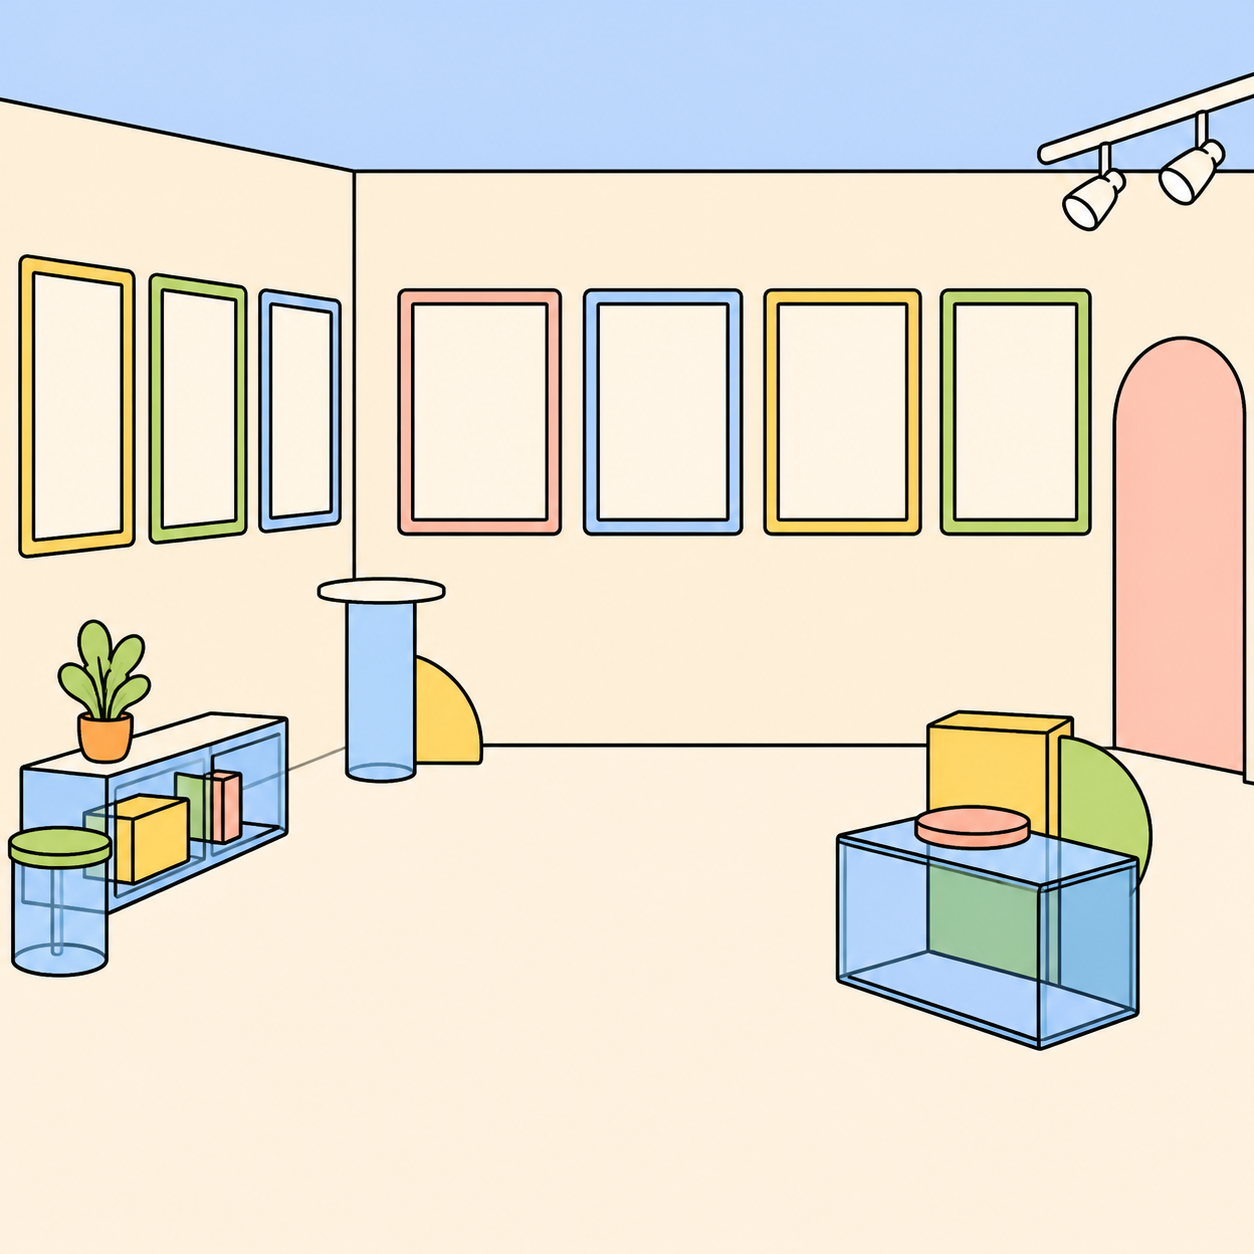
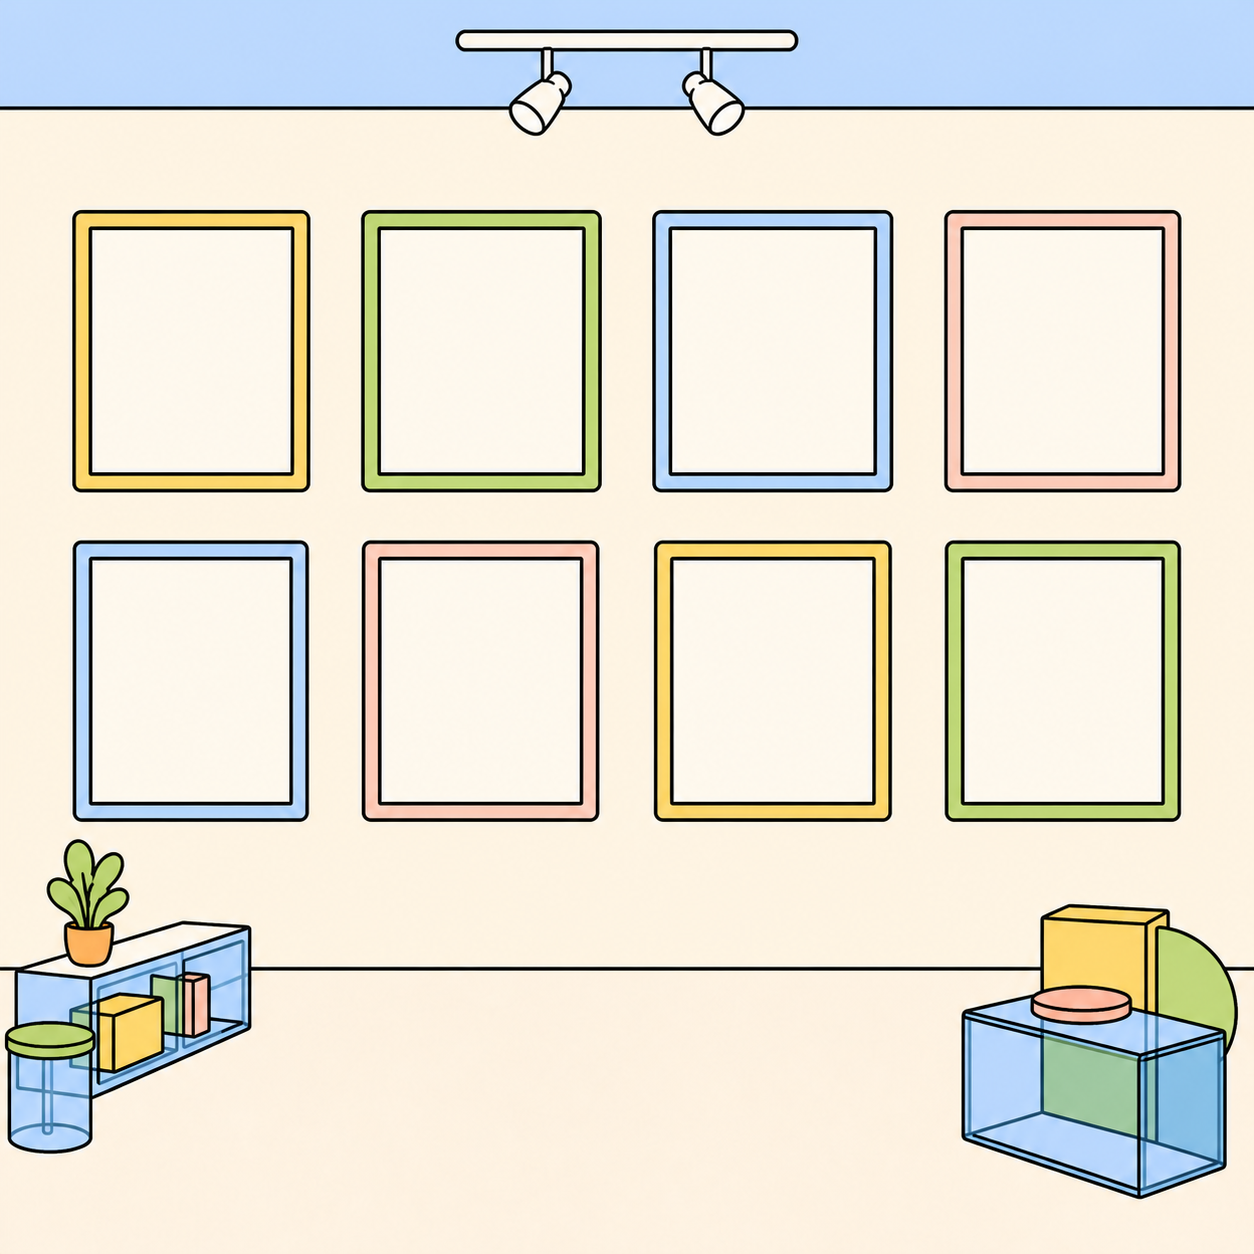
Separate village focus and merge records management

diff --git a/app/studio.tsx b/app/studio.tsx
@@ -43,7 +43,7 @@ type PersistedState = {
   sessions: WorkSession[];
 };
 
-type TabKey = "home" | "together" | "records" | "gallery" | "mission";
+type TabKey = "home" | "focus" | "together" | "records" | "gallery";
 type TimerTarget = 0 | 300 | 600 | 1200 | 1800;
 
 const categories: Array<{
@@ -579,41 +579,14 @@ function ProfileEditor({ profile, onClose, onSave }: { profile: Profile; onClose
 function HomePanel({
   profile,
   sessions,
-  elapsed,
-  timerTarget,
-  running,
-  category,
-  focusNote,
-  pauseNotice,
-  onCategory,
-  onFocusNote,
-  onTimerTarget,
-  onToggle,
-  onFinish,
-  onReset,
   onNavigate,
 }: {
   profile: Profile;
   sessions: WorkSession[];
-  elapsed: number;
-  timerTarget: TimerTarget;
-  running: boolean;
-  category: CategoryKey;
-  focusNote: string;
-  pauseNotice: string;
-  onCategory: (key: CategoryKey) => void;
-  onFocusNote: (note: string) => void;
-  onTimerTarget: (target: TimerTarget) => void;
-  onToggle: () => void;
-  onFinish: () => void;
-  onReset: () => void;
   onNavigate: (tab: TabKey) => void;
 }) {
   const totalMinutes = sessions.reduce((sum, session) => sum + minutesFor(session.seconds), 0);
   const todayMinutes = sessions.filter((session) => isSameDay(new Date(session.completedAt), new Date())).reduce((sum, session) => sum + minutesFor(session.seconds), 0);
-  const timerProgress = timerTarget === 0 ? Math.min(1, elapsed / 600) : Math.min(1, elapsed / timerTarget);
-  const timerStyle = { "--timer-progress": `${timerProgress * 360}deg` } as CSSProperties;
-  const targetReached = timerTarget > 0 && elapsed >= timerTarget;
   const villageFriends = [
     { id: "village-me", profile, x: 48, y: 70, delay: "-1.2s" },
     { id: "village-green", profile: { name: "green", characterPreset: "moss" as CharacterPresetKey }, x: 23, y: 76, delay: "-3.8s" },
@@ -631,11 +604,50 @@ function HomePanel({
         <img src="/otw-village.png" alt="시계 광장, 작업실과 전시장이 있는 아더댄웍스 창작 마을" />
         <button className="village-hotspot village-studio" type="button" onClick={() => onNavigate("together")}><span>아더댄웍스</span><small>친구들과 작업하기</small></button>
         <button className="village-hotspot village-gallery" type="button" onClick={() => onNavigate("gallery")}><span>전시장</span><small>그림 보러 가기</small></button>
-        <button className="village-hotspot village-clock" type="button" onClick={() => document.getElementById("focus-room")?.scrollIntoView({ behavior: "smooth", block: "start" })}><span>집중 시계</span><small>지금부터 집중 시작!</small></button>
+        <button className="village-hotspot village-clock" type="button" onClick={() => onNavigate("focus")}><span>집중 시계</span><small>지금부터 집중 시작!</small></button>
         {villageFriends.map((friend) => <span className="village-walker" style={{ "--walker-x": `${friend.x}%`, "--walker-y": `${friend.y}%`, "--walker-delay": friend.delay } as CSSProperties} key={friend.id}><Character profile={friend.profile} /></span>)}
       </section>
 
-      <p className="village-guide">건물을 누르면 공간으로 들어가요. 가운데 시계는 내 집중 공간으로 이어져요.</p>
+      <p className="village-guide">건물을 누르면 공간으로 들어가요. 가운데 시계를 누르면 집중 페이지가 열려요.</p>
+    </div>
+  );
+}
+
+function FocusPanel({
+  profile,
+  elapsed,
+  timerTarget,
+  running,
+  category,
+  focusNote,
+  pauseNotice,
+  onCategory,
+  onFocusNote,
+  onTimerTarget,
+  onToggle,
+  onFinish,
+  onReset,
+}: {
+  profile: Profile;
+  elapsed: number;
+  timerTarget: TimerTarget;
+  running: boolean;
+  category: CategoryKey;
+  focusNote: string;
+  pauseNotice: string;
+  onCategory: (key: CategoryKey) => void;
+  onFocusNote: (note: string) => void;
+  onTimerTarget: (target: TimerTarget) => void;
+  onToggle: () => void;
+  onFinish: () => void;
+  onReset: () => void;
+}) {
+  const timerProgress = timerTarget === 0 ? Math.min(1, elapsed / 600) : Math.min(1, elapsed / timerTarget);
+  const timerStyle = { "--timer-progress": `${timerProgress * 360}deg` } as CSSProperties;
+  const targetReached = timerTarget > 0 && elapsed >= timerTarget;
+  return (
+    <div className="focus-page">
+      <header className="focus-page-heading"><p className="eyebrow">MY FOCUS ROOM</p><h2>그림에만 머무는 시간</h2><span>앱을 벗어나면 타이머가 잠시 멈춰요.</span></header>
 
       <section className={`private-focus${running ? " is-running" : ""}`} id="focus-room">
         <div className="focus-ribbon">지금부터 집중 시작!</div>
@@ -817,7 +829,18 @@ function monthCells(date: Date) {
   return cells;
 }
 
-function RecordsPanel({ sessions }: { sessions: WorkSession[] }) {
+function RecordsPanel({ sessions, teacherNote, isHost, students, classes, onTeacherNote, onClassCode, onAddClass, onResetStudent, onRemoveStudent }: {
+  sessions: WorkSession[];
+  teacherNote: string;
+  isHost: boolean;
+  students: RosterSnapshot["students"];
+  classes: RosterSnapshot["classes"];
+  onTeacherNote: (note: string) => Promise<void>;
+  onClassCode: (classId: string, classCode: string) => Promise<void>;
+  onAddClass: (name: string, classCode: string) => Promise<void>;
+  onResetStudent: (studentId: string) => Promise<void>;
+  onRemoveStudent: (studentId: string) => Promise<void>;
+}) {
   const now = new Date();
   const cells = monthCells(now);
   const thisWeekMinutes = sessions.filter((session) => isThisWeek(new Date(session.completedAt))).reduce((sum, session) => sum + minutesFor(session.seconds), 0);
@@ -828,6 +851,7 @@ function RecordsPanel({ sessions }: { sessions: WorkSession[] }) {
   }).map((session) => new Date(session.completedAt).toDateString())).size;
   return (
     <div className="panel-stack section-panel">
+      <MissionPanel sessions={sessions} teacherNote={teacherNote} isHost={isHost} onTeacherNote={onTeacherNote} />
       <section className="paper-card news-card">
         <p className="eyebrow">이번 주 기록</p><h2>작업실 소식</h2>
         <div className="award-row"><span>{thisWeekMinutes ? "◆" : "○"}</span><div><b>{thisWeekMinutes ? `${thisWeekCount}번의 시작을 모았어요` : "언제든 다시 시작할 수 있어요"}</b><p>{thisWeekMinutes ? `이번 주 ${thisWeekMinutes}분 동안 작업실 불을 켰어요.` : "쉬었던 날의 기록도 그대로예요. 오늘 5분부터 시작해봐요."}</p></div></div>
@@ -854,22 +878,24 @@ function RecordsPanel({ sessions }: { sessions: WorkSession[] }) {
           </article>
         ))}
       </section>
+      {isHost && <section className="records-management"><div className="records-management-heading"><p className="eyebrow">선생님 계정 전용</p><h2>반과 수강생 관리</h2><span>기록과 관리가 한곳에 있어요.</span></div><RosterManager students={students} classes={classes} onClassCode={onClassCode} onAddClass={onAddClass} onReset={onResetStudent} onRemove={onRemoveStudent} /></section>}
     </div>
   );
 }
 
 const galleryFrameSpots = [
-  { x: 2.6, y: 24.3, width: 6.9, height: 18.1 },
-  { x: 13.8, y: 24.9, width: 4.6, height: 16.8 },
-  { x: 22.6, y: 25.7, width: 3.8, height: 14.5 },
-  { x: 33.9, y: 24.2, width: 9.8, height: 17.4 },
-  { x: 48.8, y: 24.2, width: 9.3, height: 17.4 },
-  { x: 62.3, y: 24.2, width: 10, height: 17.4 },
-  { x: 76.3, y: 24.2, width: 9.5, height: 17.4 },
+  { x: 7.2, y: 18.2, width: 16.1, height: 19.6 },
+  { x: 30.2, y: 18.2, width: 16.5, height: 19.6 },
+  { x: 53.3, y: 18.2, width: 16.5, height: 19.6 },
+  { x: 76.6, y: 18.2, width: 16.2, height: 19.6 },
+  { x: 7.2, y: 44.6, width: 16.1, height: 19.5 },
+  { x: 30.2, y: 44.6, width: 16.5, height: 19.5 },
+  { x: 53.3, y: 44.6, width: 16.5, height: 19.5 },
+  { x: 76.6, y: 44.6, width: 16.2, height: 19.5 },
 ] as const;
 
 const galleryVisitorSpots = [
-  { x: 25, y: 67, move: 18 }, { x: 46, y: 77, move: -22 }, { x: 67, y: 66, move: 16 }, { x: 78, y: 84, move: -14 },
+  { x: 22, y: 84, move: 18 }, { x: 43, y: 89, move: -22 }, { x: 64, y: 83, move: 16 }, { x: 81, y: 90, move: -14 },
 ] as const;
 
 function GalleryVisitor({ friend, index }: { friend: MapMember; index: number }) {
@@ -1013,17 +1039,11 @@ function RosterManager({ students, classes, onClassCode, onAddClass, onReset, on
   );
 }
 
-function MissionPanel({ sessions, teacherNote, isHost, students, classes, onTeacherNote, onClassCode, onAddClass, onResetStudent, onRemoveStudent }: {
+function MissionPanel({ sessions, teacherNote, isHost, onTeacherNote }: {
   sessions: WorkSession[];
   teacherNote: string;
   isHost: boolean;
-  students: RosterSnapshot["students"];
-  classes: RosterSnapshot["classes"];
   onTeacherNote: (note: string) => Promise<void>;
-  onClassCode: (classId: string, classCode: string) => Promise<void>;
-  onAddClass: (name: string, classCode: string) => Promise<void>;
-  onResetStudent: (studentId: string) => Promise<void>;
-  onRemoveStudent: (studentId: string) => Promise<void>;
 }) {
   const progress = sessions.filter((session) => session.category === "sketch" && isThisWeek(new Date(session.completedAt))).length;
   const totalMinutes = sessions.reduce((sum, session) => sum + minutesFor(session.seconds), 0);
@@ -1032,7 +1052,7 @@ function MissionPanel({ sessions, teacherNote, isHost, students, classes, onTeac
   const [noteSaving, setNoteSaving] = useState(false);
   const [noteError, setNoteError] = useState("");
   return (
-    <div className="panel-stack section-panel mission-panel">
+    <div className="panel-stack mission-panel">
       <section className="paper-card mission-card">
         <div className="card-title-row"><span className="eyebrow">이번 주 미션</span><i>스케치</i></div>
         <h2>못생긴 첫 스케치 3번</h2><p>완성하려고 애쓰지 말고, 10분 동안 손을 멈추지 않는 스케치를 세 번 남겨보세요.</p>
@@ -1060,7 +1080,6 @@ function MissionPanel({ sessions, teacherNote, isHost, students, classes, onTeac
         </> : <><p>“{teacherNote}”</p>{isHost && <button className="teacher-edit-button" type="button" onClick={() => setEditingNote(true)}>한마디 수정</button>}</>}</div>
       </section>
       <section className="paper-card journey-card"><p className="eyebrow">작업실 성장</p><h2>조금씩 열리는 공간</h2>{milestones.map((milestone, index) => { const open = milestone.minutes <= totalMinutes; return <div className={`journey-row${open ? " open" : ""}`} key={milestone.title}><span>{milestone.icon}</span><div><b>{milestone.title}</b><p>{milestone.detail}</p></div><i>{milestone.minutes === 0 ? "기본" : `${milestone.minutes}분`}</i>{index < milestones.length - 1 && <em />}</div>; })}</section>
-      {isHost && <RosterManager students={students} classes={classes} onClassCode={onClassCode} onAddClass={onAddClass} onReset={onResetStudent} onRemove={onRemoveStudent} />}
     </div>
   );
 }
@@ -1408,15 +1427,15 @@ export default function Home() {
       </header>
       {connectionMessage && <div className="connection-banner">{connectionMessage}</div>}
       <div className="app-content">
-        {tab === "home" && <HomePanel profile={profile} sessions={sessions} elapsed={elapsed} timerTarget={timerTarget} running={running} category={category} focusNote={focusNote} pauseNotice={pauseNotice} onCategory={setCategory} onFocusNote={setFocusNote} onTimerTarget={(target) => { if (!running && elapsed === 0) { setTimerTarget(target); goalReached.current = false; } }} onToggle={toggleTimer} onFinish={openFinish} onReset={resetTimer} onNavigate={setTab} />}
+        {tab === "home" && <HomePanel profile={profile} sessions={sessions} onNavigate={setTab} />}
+        {tab === "focus" && <FocusPanel profile={profile} elapsed={elapsed} timerTarget={timerTarget} running={running} category={category} focusNote={focusNote} pauseNotice={pauseNotice} onCategory={setCategory} onFocusNote={setFocusNote} onTimerTarget={(target) => { if (!running && elapsed === 0) { setTimerTarget(target); goalReached.current = false; } }} onToggle={toggleTimer} onFinish={openFinish} onReset={resetTimer} />}
         {tab === "together" && <TogetherPanel profile={profile} activeFriends={activeFriends} running={running} elapsed={elapsed} category={category} clock={clock} onMessage={saveMessage} />}
-        {tab === "records" && <RecordsPanel sessions={sessions} />}
+        {tab === "records" && <RecordsPanel sessions={sessions} teacherNote={teacherNote} isHost={Boolean(roster?.isAdmin)} students={roster?.students ?? []} classes={roster?.classes ?? []} onTeacherNote={saveTeacherNote} onClassCode={saveClassCode} onAddClass={addClass} onResetStudent={resetStudent} onRemoveStudent={removeStudent} />}
         {tab === "gallery" && <GalleryPanel profile={profile} sessions={sessions} sharedGallery={sharedGallery} activeFriends={activeFriends} isHost={Boolean(roster?.isAdmin)} onRemove={removeArtwork} />}
-        {tab === "mission" && <MissionPanel sessions={sessions} teacherNote={teacherNote} isHost={Boolean(roster?.isAdmin)} students={roster?.students ?? []} classes={roster?.classes ?? []} onTeacherNote={saveTeacherNote} onClassCode={saveClassCode} onAddClass={addClass} onResetStudent={resetStudent} onRemoveStudent={removeStudent} />}
       </div>
       <nav className="bottom-nav" aria-label="주요 메뉴">
         {([
-          ["home", "마을"], ["together", "아더댄웍스"], ["records", "기록"], ["gallery", "전시"], ["mission", roster?.isAdmin ? "관리" : "미션"],
+          ["home", "마을"], ["focus", running ? "집중 중" : "집중"], ["together", "아더댄웍스"], ["records", roster?.isAdmin ? "기록·관리" : "기록"], ["gallery", "전시"],
         ] as Array<[TabKey, string]>).map(([key, label]) => <button type="button" key={key} className={tab === key ? "active" : ""} onClick={() => setTab(key)}><span aria-hidden="true" />{label}</button>)}
       </nav>
       {finishOpen && <CompletionModal seconds={elapsed} goalSeconds={timerTarget} category={category} onClose={() => setFinishOpen(false)} onSave={saveSession} />}

diff --git a/app/globals.css b/app/globals.css
@@ -594,11 +594,11 @@ button:focus-visible, input:focus-visible, textarea:focus-visible, label:has(inp
   overflow: hidden;
   padding: 0;
   border: 0;
-  border-radius: 1px;
+  border-radius: 0;
   background: #fff;
   cursor: pointer;
 }
-.gallery-frame-art img { width: 100%; height: 100%; display: block; object-fit: cover; }
+.gallery-frame-art img { width: 100%; height: 100%; display: block; object-fit: contain; background: #fffefa; }
 .gallery-frame-art.selected { outline: 2px solid #315fae; outline-offset: 2px; }
 .gallery-visitors { position: absolute; z-index: 8; inset: 0; pointer-events: none; }
 .gallery-visitor {
@@ -735,7 +735,7 @@ button:focus-visible, input:focus-visible, textarea:focus-visible, label:has(inp
   .gallery-heading > span, .gallery-map-empty { font-size: 12px; }
 }
 
-/* The front door is now a tiny creative village; the pomodoro lives in a private desk below it. */
+/* The village and the private pomodoro room are separate destinations. */
 .village-home { display: grid; gap: 14px; padding: 14px 14px 34px; }
 .village-heading { display: flex; align-items: end; justify-content: space-between; gap: 16px; padding: 2px 3px 0; }
 .village-heading p { margin: 0 0 3px; color: #68706d; font-size: 9px; font-weight: 750; }
@@ -758,6 +758,10 @@ button:focus-visible, input:focus-visible, textarea:focus-visible, label:has(inp
 .village-guide { margin: 0 4px; color: #686f6b; font-size: 9px; line-height: 1.5; text-align: center; }
 @keyframes village-walk { 0%, 18%, 100% { transform: translate(-50%, -50%) translate(0,0); } 46%, 62% { transform: translate(-50%, -50%) translate(13px,-5px); } 78%, 90% { transform: translate(-50%, -50%) translate(-8px,4px); } }
 
+.focus-page { display: grid; gap: 14px; padding: 14px 14px 34px; }
+.focus-page-heading { display: grid; gap: 3px; padding: 2px 3px 0; }
+.focus-page-heading h2 { margin: 0; color: var(--ink); font-size: 22px; line-height: 1.2; letter-spacing: -.045em; }
+.focus-page-heading > span { color: #68706d; font-size: 9px; line-height: 1.5; }
 .private-focus { scroll-margin-top: 76px; overflow: hidden; border: 2px solid var(--ink); border-radius: 18px; background: #fffefa; box-shadow: 4px 4px 0 var(--ink); }
 .focus-ribbon { position: relative; z-index: 6; width: max-content; max-width: calc(100% - 38px); margin: 14px auto -16px; padding: 8px 22px; border: 1.5px solid var(--ink); border-radius: 4px; color: #402b21; background: #ff947a; box-shadow: 2px 2px 0 var(--ink); text-align: center; font-size: 14px; font-weight: 950; letter-spacing: -.035em; }
 .focus-ribbon::before, .focus-ribbon::after { content: ""; position: absolute; z-index: -1; top: 7px; width: 17px; height: 24px; border: 1.5px solid var(--ink); background: #f37e69; }
@@ -817,9 +821,15 @@ button:focus-visible, input:focus-visible, textarea:focus-visible, label:has(inp
 
 .together-map .floating-name, .gallery-visitor > span { width: max-content; min-width: 0; max-width: min(112px, calc(100vw - 30px)); }
 .together-map .floating-name b, .together-map .floating-name small, .gallery-visitor > span b, .gallery-visitor > span small { width: auto; max-width: 100%; }
+.records-management { display: grid; gap: 10px; margin-top: 5px; padding-top: 18px; border-top: 2px solid var(--ink); }
+.records-management-heading { display: grid; gap: 3px; padding: 0 2px; }
+.records-management-heading h2 { margin: 0; font-size: 20px; letter-spacing: -.04em; }
+.records-management-heading > span { color: #68706d; font-size: 9px; }
+.records-management .roster-manager { margin: 0; }
 
 @media (max-width: 380px) {
   .village-home { padding-inline: 10px; }
+  .focus-page { padding-inline: 10px; }
   .village-heading h2 { font-size: 19px; }
   .village-hotspot { min-width: 74px; padding-inline: 7px; }
   .village-hotspot span { font-size: 9px; }
